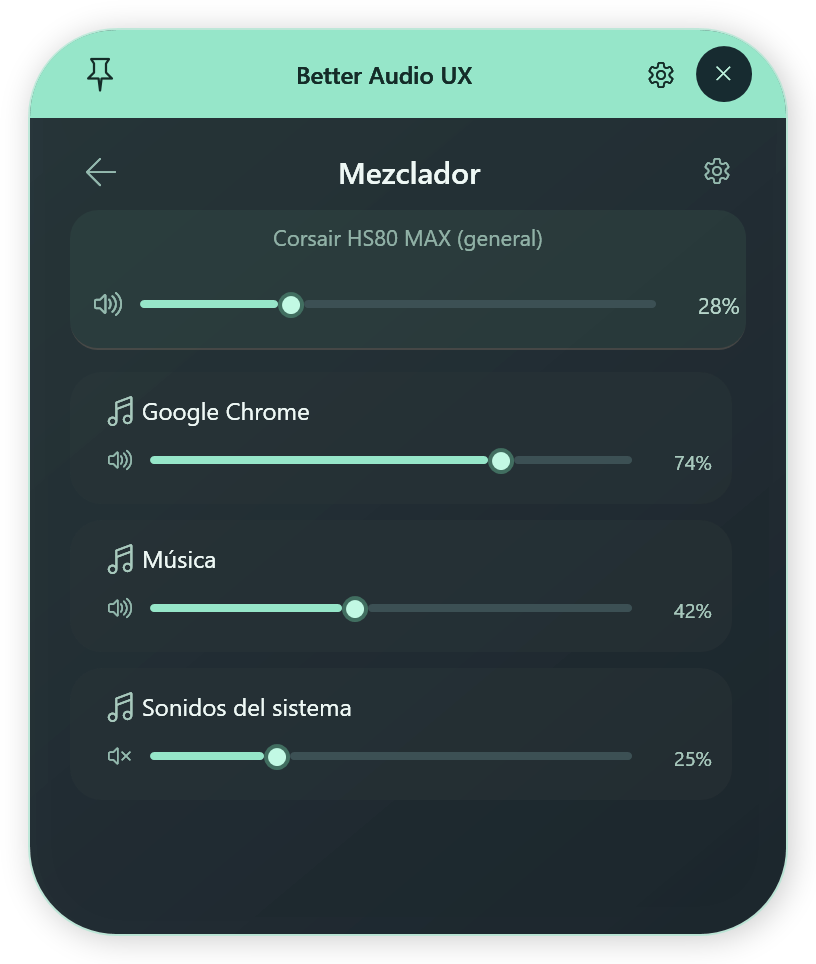
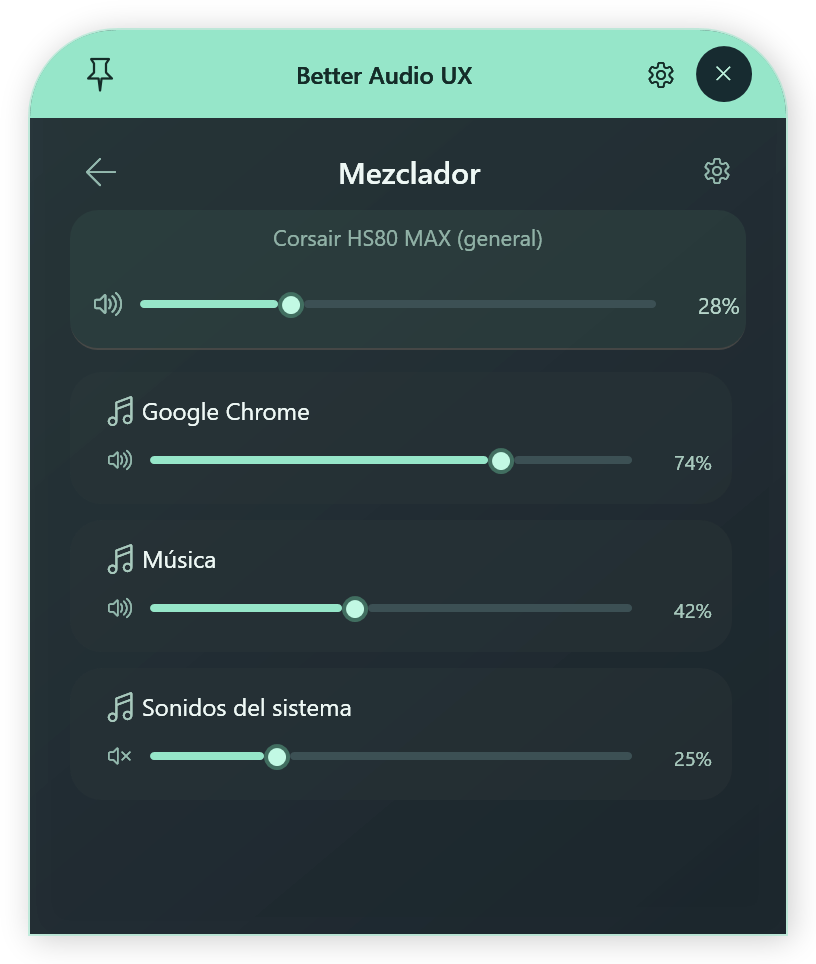
Square footer edges and improve settings toggle contrast

Changed region(s): [[0.8885, 0.9025, 0.9804, 0.9959], [0.0306, 0.9025, 0.1225, 0.9959]]

diff --git a/AudioFlyoutApp/UI/Flyout/FlyoutWindow.xaml b/AudioFlyoutApp/UI/Flyout/FlyoutWindow.xaml
@@ -13,17 +13,11 @@
             <Setter Property="Template"><Setter.Value><ControlTemplate TargetType="Button"><Border x:Name="Surface" Background="Transparent" CornerRadius="0" Padding="{TemplateBinding Padding}"><ContentPresenter VerticalAlignment="Center" HorizontalAlignment="Center"/></Border><ControlTemplate.Triggers><Trigger Property="IsMouseOver" Value="True"><Setter TargetName="Surface" Property="Background" Value="#25142C28"/></Trigger><Trigger Property="IsKeyboardFocused" Value="True"><Setter TargetName="Surface" Property="Background" Value="#25142C28"/></Trigger></ControlTemplate.Triggers></ControlTemplate></Setter.Value></Setter>
         </Style>
         <Style x:Key="FooterIconButton" TargetType="Button">
-            <Setter Property="Foreground" Value="#142C28"/><Setter Property="Cursor" Value="Hand"/>
-            <Setter Property="Template"><Setter.Value><ControlTemplate TargetType="Button">
-                <Border Background="Transparent" Padding="6,5"><ContentPresenter HorizontalAlignment="Center" VerticalAlignment="Center"/></Border>
-                <ControlTemplate.Triggers>
-                    <Trigger Property="IsMouseOver" Value="True"><Setter Property="Foreground" Value="#2F5C51"/></Trigger>
-                    <Trigger Property="IsKeyboardFocused" Value="True"><Setter Property="Foreground" Value="#2F5C51"/></Trigger>
-                    <Trigger Property="IsEnabled" Value="False"><Setter Property="Opacity" Value="0.35"/></Trigger>
-                </ControlTemplate.Triggers>
-            </ControlTemplate></Setter.Value></Setter>
-        </Style>
-        <Style x:Key="FooterCheckBox" TargetType="CheckBox">
+            <Setter Property="Foreground" Value="#C5F6E4"/><Setter Property="Background" Value="#172B30"/><Setter Property="Cursor" Value="Hand"/>
+            <Setter Property="Width" Value="24"/><Setter Property="Height" Value="24"/><Setter Property="Margin" Value="0,0,4,0"/>
+            <Setter Property="Template"><Setter.Value><ControlTemplate TargetType="Button"><Border Background="{TemplateBinding Background}" CornerRadius="12"><ContentPresenter HorizontalAlignment="Center" VerticalAlignment="Center"/></Border><ControlTemplate.Triggers><Trigger Property="IsMouseOver" Value="True"><Setter Property="Opacity" Value="0.75"/></Trigger><Trigger Property="IsKeyboardFocused" Value="True"><Setter Property="Opacity" Value="0.75"/></Trigger><Trigger Property="IsEnabled" Value="False"><Setter Property="Opacity" Value="0.4"/></Trigger></ControlTemplate.Triggers></ControlTemplate></Setter.Value></Setter>
+            <Style.Triggers><MultiDataTrigger><MultiDataTrigger.Conditions><Condition Binding="{Binding SpatialEnabled}" Value="True"/><Condition Binding="{Binding RelativeSource={RelativeSource Self}, Path=Tag}" Value="Spatial"/></MultiDataTrigger.Conditions><Setter Property="Background" Value="#BFF4DE"/><Setter Property="Foreground" Value="#172B30"/></MultiDataTrigger></Style.Triggers>
+        </Style>        <Style x:Key="FooterCheckBox" TargetType="CheckBox">
             <Setter Property="Foreground" Value="#142C28"/><Setter Property="FontSize" Value="11"/><Setter Property="FontWeight" Value="SemiBold"/><Setter Property="Cursor" Value="Hand"/>
             <Setter Property="HorizontalContentAlignment" Value="Center"/><Setter Property="VerticalContentAlignment" Value="Center"/>
             <Setter Property="Template"><Setter.Value><ControlTemplate TargetType="CheckBox">
@@ -113,7 +107,7 @@
         </Style>
         <Style x:Key="HeaderButton" TargetType="Button" BasedOn="{StaticResource IconButton}"><Setter Property="Foreground" Value="#142C28"/><Style.Triggers><Trigger Property="IsMouseOver" Value="True"><Setter Property="Foreground" Value="#28483D"/></Trigger><Trigger Property="IsKeyboardFocused" Value="True"><Setter Property="Foreground" Value="#28483D"/></Trigger></Style.Triggers></Style>
     </Window.Resources>
-    <Border x:Name="HudSurface" Margin="14" CornerRadius="44" BorderBrush="#8596E6C9" BorderThickness="1" RenderTransformOrigin="0.5,1">
+    <Border x:Name="HudSurface" Margin="14" CornerRadius="44,44,0,0" BorderBrush="#8596E6C9" BorderThickness="1" RenderTransformOrigin="0.5,1">
         <Border.Background><LinearGradientBrush StartPoint="0,0" EndPoint="1,1"><GradientStop Color="#EB18282C" Offset="0"/><GradientStop Color="#F0111B23" Offset="1"/></LinearGradientBrush></Border.Background>
         <Border.Effect><DropShadowEffect BlurRadius="24" ShadowDepth="3" Opacity="0.22" Color="#000000"/></Border.Effect>
         <Border.RenderTransform><TransformGroup><ScaleTransform x:Name="RevealScale"/><TranslateTransform x:Name="RevealOffset"/></TransformGroup></Border.RenderTransform>
@@ -181,7 +175,7 @@
 
             <TextBlock Grid.Row="3" Text="{Binding Message}" Foreground="#EBC9AA" Background="#ED17242B" FontSize="9" TextAlignment="Center" TextWrapping="Wrap" VerticalAlignment="Top" MaxWidth="330" Margin="0,2,0,0" Visibility="{Binding HasMessage, Converter={StaticResource VisibleIf}}" AutomationProperties.LiveSetting="Polite"/>
         </Grid>
-        <Border Grid.Row="2" CornerRadius="0,0,43,43" Background="#96E6C9" Height="44" SizeChanged="Footer_SizeChanged">
+        <Border Grid.Row="2" CornerRadius="0" Background="#96E6C9" Height="44">
             <Border.Style><Style TargetType="Border"><Style.Triggers><DataTrigger Binding="{Binding IsMixerOpen}" Value="True"><Setter Property="Visibility" Value="Collapsed"/></DataTrigger></Style.Triggers></Style></Border.Style>
             <Grid Margin="0">
                 <Grid.ColumnDefinitions>
@@ -191,22 +185,22 @@
                 </Grid.ColumnDefinitions>
                 <Border Grid.Column="0" Background="Transparent" Margin="0">
                     <Grid>
-                        <Grid.ColumnDefinitions><ColumnDefinition/><ColumnDefinition Width="26"/></Grid.ColumnDefinitions>
+                        <Grid.ColumnDefinitions><ColumnDefinition/><ColumnDefinition Width="32"/></Grid.ColumnDefinitions>
                         <Button Style="{StaticResource FooterGroupButton}" Click="Mixer_Click" AutomationProperties.Name="Abrir mezclador integrado" HorizontalAlignment="Stretch"><StackPanel Orientation="Horizontal" HorizontalAlignment="Center"><TextBlock Text="&#xE9E9;" FontFamily="Segoe Fluent Icons, Segoe MDL2 Assets" FontSize="12" Margin="0,0,6,0" VerticalAlignment="Center"/><TextBlock Text="Mezclador" FontSize="11" FontWeight="SemiBold" VerticalAlignment="Center"/></StackPanel></Button>
                         <Button Grid.Column="1" Style="{StaticResource FooterIconButton}" Click="MixerSettings_Click" Content="&#xE713;" FontFamily="Segoe Fluent Icons, Segoe MDL2 Assets" FontSize="11" ToolTip="Mezclador de Windows" AutomationProperties.Name="Abrir configuración del mezclador en Windows"/>
                     </Grid>
                 </Border>
                 <Border Grid.Column="1" Margin="0"><Border.Style><Style TargetType="Border"><Setter Property="Background" Value="Transparent"/><Style.Triggers><DataTrigger Binding="{Binding SpatialEnabled}" Value="True"><Setter Property="Background" Value="#2D5C4E"/></DataTrigger></Style.Triggers></Style></Border.Style>
                     <Grid>
-                        <Grid.ColumnDefinitions><ColumnDefinition/><ColumnDefinition Width="26"/></Grid.ColumnDefinitions>
+                        <Grid.ColumnDefinitions><ColumnDefinition/><ColumnDefinition Width="32"/></Grid.ColumnDefinitions>
                         <CheckBox Style="{StaticResource FooterCheckBox}" Content="Espacial" Margin="0" IsChecked="{Binding SpatialEnabled, Mode=OneWay}" IsEnabled="{Binding CanToggleSpatial}" Click="SpatialToggle_Click" ToolTip="{Binding SpatialHint}" ToolTipService.ShowOnDisabled="True" HorizontalAlignment="Stretch" VerticalAlignment="Stretch" AutomationProperties.Name="Activar o desactivar sonido espacial"/>
-                        <Button Grid.Column="1" Style="{StaticResource FooterIconButton}" Click="Spatial_Click" IsEnabled="{Binding HasDevices}" Content="&#xE713;" FontFamily="Segoe Fluent Icons, Segoe MDL2 Assets" FontSize="11" ToolTip="Proveedores y propiedades de sonido espacial en Windows" AutomationProperties.Name="Configurar sonido espacial en Windows"/>
+                        <Button Grid.Column="1" Style="{StaticResource FooterIconButton}" Tag="Spatial" Click="Spatial_Click" IsEnabled="{Binding HasDevices}" Content="&#xE713;" FontFamily="Segoe Fluent Icons, Segoe MDL2 Assets" FontSize="11" ToolTip="Proveedores y propiedades de sonido espacial en Windows" AutomationProperties.Name="Configurar sonido espacial en Windows"/>
                     </Grid>
                 </Border>
                 <Border Grid.Column="1" Width="1" Height="24" Background="#70142C28" HorizontalAlignment="Left" IsHitTestVisible="False" Panel.ZIndex="3"/>
                 <Border Grid.Column="2" Width="1" Height="24" Background="#70142C28" HorizontalAlignment="Left" IsHitTestVisible="False" Panel.ZIndex="3"/>
                 <Border Grid.Column="2" Background="Transparent" Margin="0">
-                    <CheckBox Style="{StaticResource FooterCheckBox}" Content="Al navegar" Margin="0" IsChecked="{Binding AutoSwitchOnNavigation, Mode=TwoWay}" HorizontalAlignment="Stretch" VerticalAlignment="Stretch" ToolTip="Cambia la salida automáticamente al recorrer el arco. Desmarcá para elegir con Enter o clic." AutomationProperties.Name="Fijar salida al navegar"/>
+                    <CheckBox Style="{StaticResource FooterCheckBox}" Content="Fijar al navegar" Margin="0" IsChecked="{Binding AutoSwitchOnNavigation, Mode=TwoWay}" HorizontalAlignment="Stretch" VerticalAlignment="Stretch" ToolTip="Cambia la salida automáticamente al recorrer el arco. Desmarcá para elegir con Enter o clic." AutomationProperties.Name="Fijar salida al navegar"/>
                 </Border>
             </Grid>
         </Border>

diff --git a/AudioFlyoutApp/UI/Flyout/FlyoutWindow.xaml.cs b/AudioFlyoutApp/UI/Flyout/FlyoutWindow.xaml.cs
@@ -146,27 +146,6 @@ public partial class FlyoutWindow : Window
         if (sender is ScrollViewer list) { list.ScrollToVerticalOffset(list.VerticalOffset - e.Delta * .4); e.Handled = true; }
     }
     private void Close_Click(object sender, RoutedEventArgs e) => Dismiss();
-    private void Footer_SizeChanged(object sender, SizeChangedEventArgs e)
-    {
-        // Border clips its background, but not children. Keep the section fills
-        // inside the rounded outside corners while the inside edge stays flat.
-        var surface = (Border)sender;
-        var width = e.NewSize.Width;
-        var height = e.NewSize.Height;
-        var radius = Math.Min(43, Math.Min(width / 2, height));
-        var clip = new System.Windows.Media.StreamGeometry();
-        using (var path = clip.Open())
-        {
-            path.BeginFigure(new Point(0, 0), true, true);
-            path.LineTo(new Point(width, 0), true, false);
-            path.LineTo(new Point(width, height - radius), true, false);
-            path.ArcTo(new Point(width - radius, height), new Size(radius, radius), 0, false, System.Windows.Media.SweepDirection.Clockwise, true, false);
-            path.LineTo(new Point(radius, height), true, false);
-            path.ArcTo(new Point(0, height - radius), new Size(radius, radius), 0, false, System.Windows.Media.SweepDirection.Clockwise, true, false);
-        }
-        clip.Freeze();
-        surface.Clip = clip;
-    }
     private void Window_Deactivated(object? sender, EventArgs e) { if (IsPinned && !KeepOpen && !IsOpening) Dismiss(); }
     private void Previous_Click(object sender, RoutedEventArgs e) => ViewModel.MoveSelection(-1);
     private void Next_Click(object sender, RoutedEventArgs e) => ViewModel.MoveSelection(1);

diff --git a/README.md b/README.md
@@ -108,7 +108,7 @@ Utiliza NAudio.Wasapi/NAudio.Core (MIT), el runtime de .NET y **SoundVolumeComma
 
 Consultá [THIRD-PARTY-NOTICES.md](THIRD-PARTY-NOTICES.md) y el [readme original de NirSoft](ThirdParty/SoundVolumeCommandLine/readme.txt). Las licencias de las dependencias no conceden una licencia sobre el código propio del proyecto.
 
-## Interfaz compacta 1.2.5
+## Interfaz compacta 1.2.6
 
-El footer se divide en tres secciones: Mezclador, Espacial y Al navegar. Las opciones activas colorean su sección completa, sin casillas; los engranajes siguen abriendo sus ajustes de Windows. El encabezado y el footer tienen bordes interiores rectos y conservan las esquinas exteriores redondeadas. La apertura prepara el audio antes de mostrar un único fundido del contenido, sin volver a escalar ni cambiar la opacidad de la ventana. Los indicadores de estado de los dispositivos ("EN USO" y "DISPONIBLE") cuentan con mayor visibilidad, fondo y tipografía destacada. La vista principal mide 408 × 378 DIPs.
+El footer se divide en tres secciones: Mezclador, Espacial y Fijar al navegar. Las opciones activas colorean su sección completa, sin casillas; los engranajes siguen abriendo sus ajustes de Windows. El footer tiene bordes rectos; el encabezado conserva sus esquinas superiores redondeadas. Los engranajes tienen contenedores circulares con contraste, que invierten sus colores cuando Espacial está activo. La apertura prepara el audio antes de mostrar un único fundido del contenido, sin volver a escalar ni cambiar la opacidad de la ventana. Los indicadores de estado de los dispositivos ("EN USO" y "DISPONIBLE") cuentan con mayor visibilidad, fondo y tipografía destacada. La vista principal mide 408 × 378 DIPs.
 
